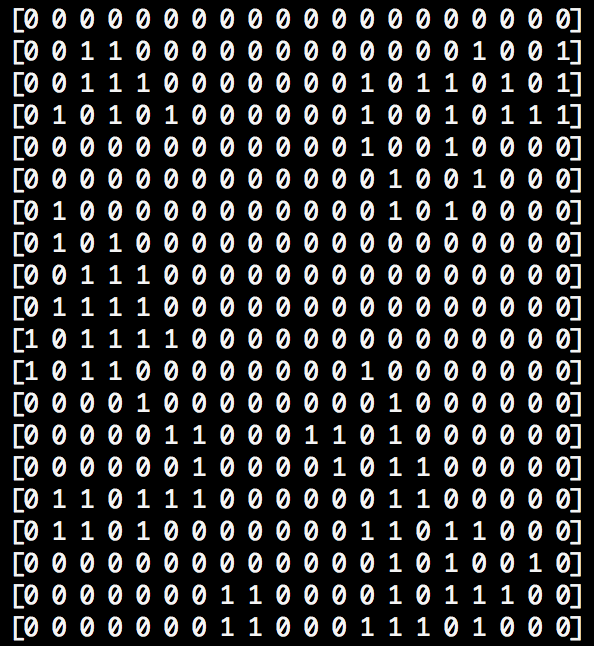
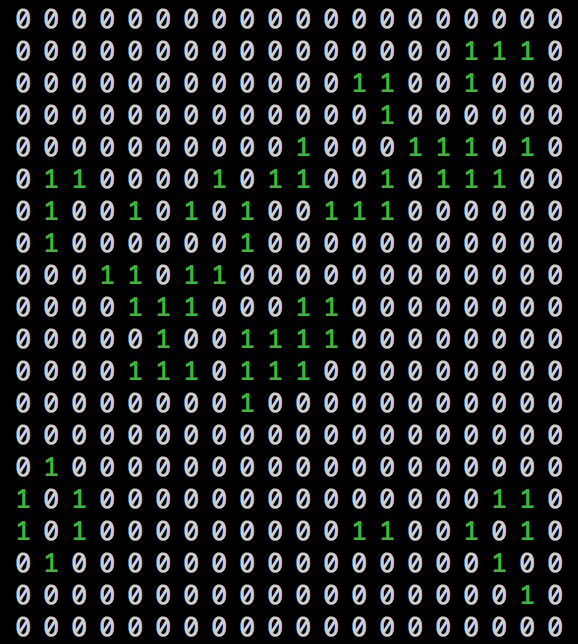
Updated display function

diff --git a/gog.go b/gog.go
@@ -9,6 +9,12 @@ import (
 	"time"
 )
 
+const (
+	GREEN = "\033[0;32m"
+	RESET = "\x1b[0m"
+	GREY = "\033[0;37m"
+)
+
 func clear_terminal() {
 	cmd := exec.Command("clear")
 	cmd.Stdout = os.Stdout
@@ -23,7 +29,14 @@ func timeTrack(start time.Time, name string) {
 func display(world [][]uint8) {
 	clear_terminal()
 	for _, world_slice := range world {
-		fmt.Printf("%v\n", world_slice)
+		for _, cell := range world_slice{
+			if cell == 1{
+				fmt.Printf(" %v%v%v",GREEN, cell, RESET)
+			}else{
+				fmt.Printf(" %v%v%v",GREY, cell, RESET)
+			}
+		}
+		fmt.Printf("\n")
 	}
 }
 
